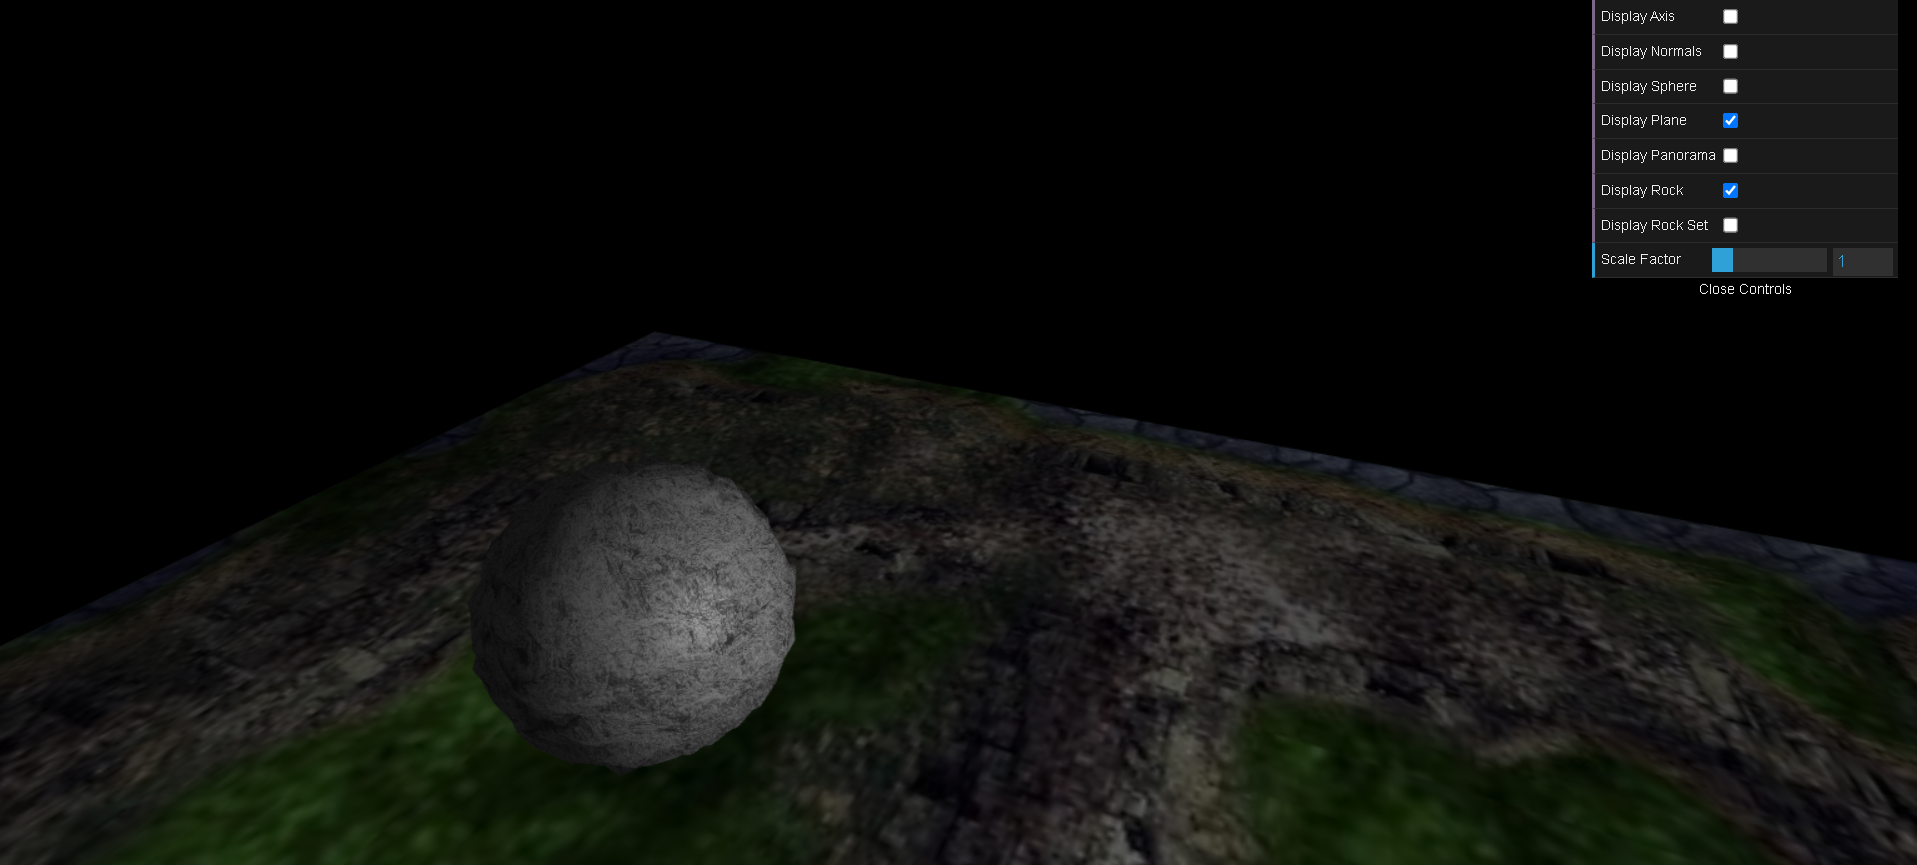
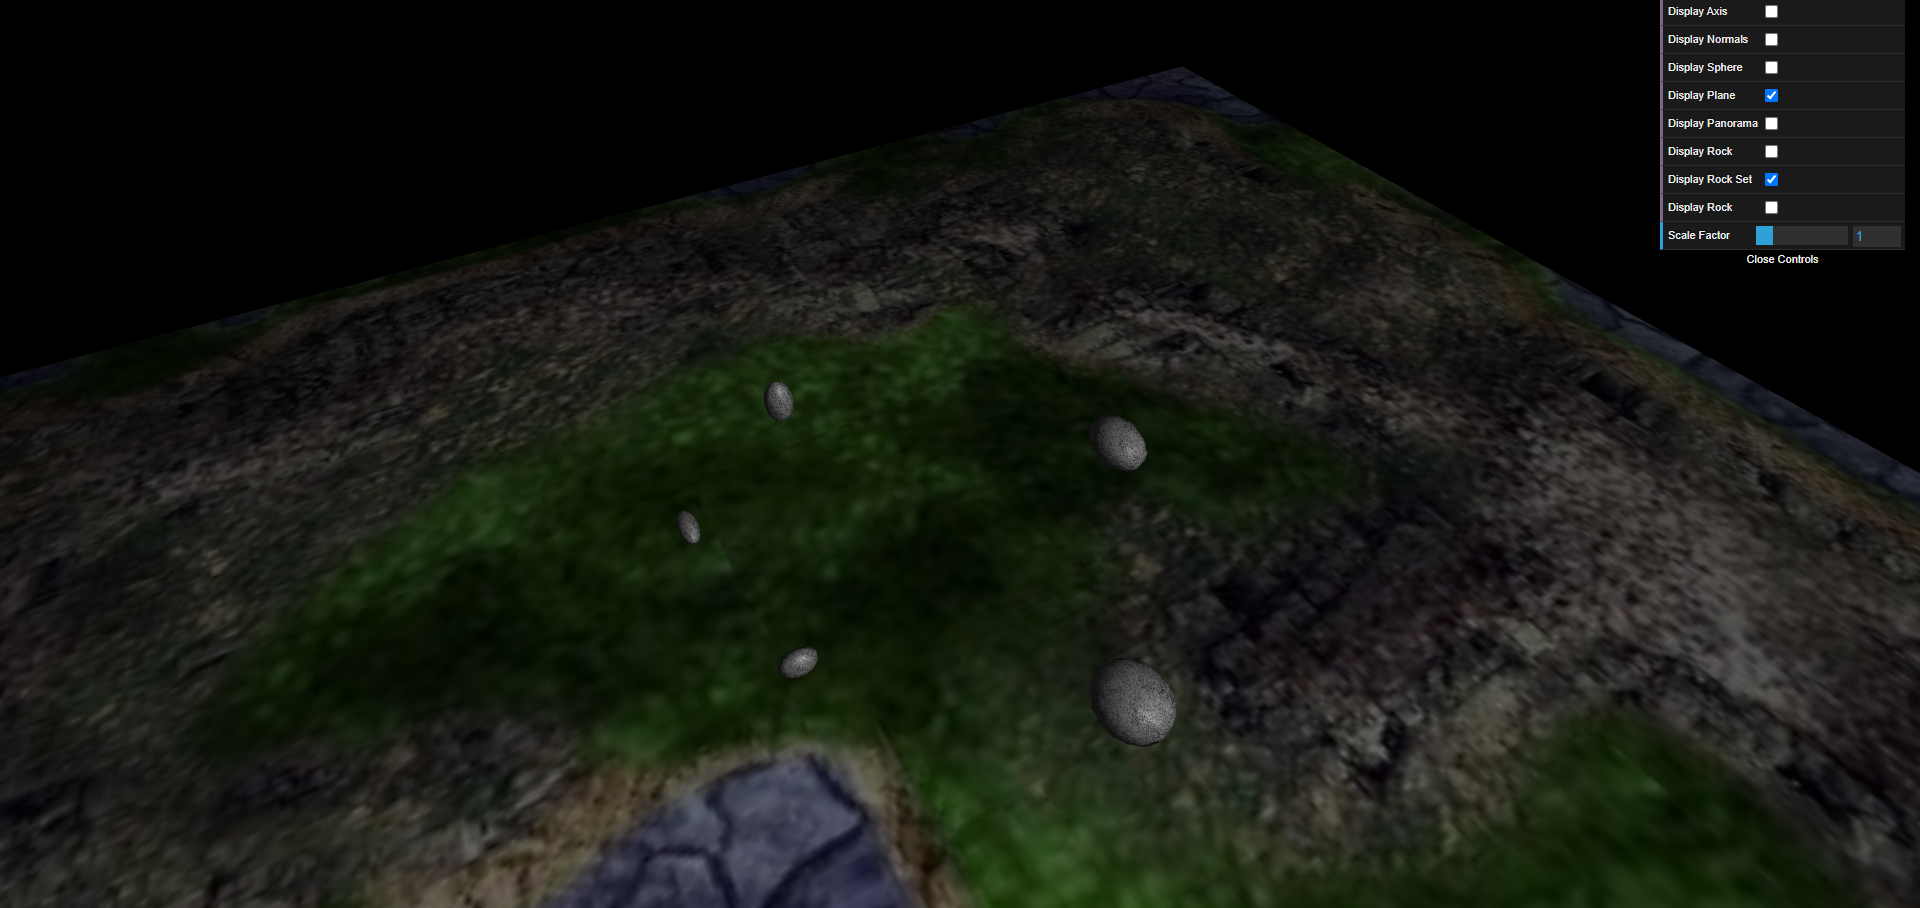
RockPilePyramid

diff --git a/project/MyScene.js b/project/MyScene.js
@@ -4,6 +4,7 @@ import { MySphere } from "./MySphere.js";
 import { MyPanorama } from "./MyPanorama.js";
 import { MyRock } from "./MyRock.js";
 import { MyRockSet } from "./MyRockSet.js";
+import { MyRockPyramid } from "./MyRockPyramid.js";
 
 /**
  * MyScene
@@ -34,6 +35,7 @@ export class MyScene extends CGFscene {
     this.panorama = new MyPanorama(this, new CGFtexture(this, "images/city_panorama.jpg"));
     this.rock = new MyRock(this, 32, 32, false);
     this.rockset = new MyRockSet(this, 5, 32, 32);
+    this.rockpyramid = new MyRockPyramid(this, 3, 32, 32);
 
     //Objects connected to MyInterface
     this.displayAxis = false;
@@ -42,7 +44,8 @@ export class MyScene extends CGFscene {
     this.displayPlane = false;
     this.displayPanorama = false;
     this.displayRock = false;
-    this.displayRockSet = true;
+    this.displayRockSet = false;
+    this.displayRockPyramid = true;
     this.scaleFactor = 1;
 
     //Textures
@@ -157,6 +160,14 @@ export class MyScene extends CGFscene {
         child.disableNormalViz();
       }
     }
-    // ---- END Primitive drawing section
+
+    if(this.displayRockPyramid){
+        this.rockpyramid.display();
+        if(this.displayNormals){
+          for(let child of this.rockpyramid.rocks){
+            child.enableNormalViz();
+          }
+        }
+      }  
   }
 }

diff --git a/project/MyRockPyramid.js b/project/MyRockPyramid.js
@@ -1,0 +1,42 @@
+import { CGFobject } from "../lib/CGF.js";
+import { MyRock } from "./MyRock.js";
+
+export class MyRockPyramid extends CGFobject {
+
+    constructor(scene, heigth, slices, stacks){
+
+        super(scene);
+        this.rocks = [];
+
+        let rockId = 0;
+
+        for(let h = 0; h < heigth; h++){
+
+            let numRocks = (h + 1) * (h + 1);
+
+            for(let i = 0; i < numRocks; i++){
+
+                let rock = new MyRock(scene,slices,stacks);
+
+                let x = ((i % (h + 1)) - h / 2);
+                let y = -h*1.2;
+                let z = Math.floor((i / (h + 1)) - h / 2);
+
+                rock.position = [x,y,z];
+                this.rocks[rockId++] = rock;
+
+            }
+        }
+
+    }
+
+    display(){
+        for(let rock of this.rocks){
+            this.scene.pushMatrix();
+            this.scene.translate(rock.position[0],rock.position[1],rock.position[2]);
+            rock.display();
+            this.scene.popMatrix();
+        }
+    }
+
+}

diff --git a/project/MyRock.js b/project/MyRock.js
@@ -10,6 +10,12 @@ export class MyRock extends CGFobject {
         this.stacks = stacks;
         this.inverse = inverse;
 
+        let scaleX = Math.random() * 0.5 + 0.5;
+        let scaleY = Math.random() * 0.5 + 0.5;
+        let scaleZ = Math.random() * 0.5 + 0.5;
+
+        this.scale = [scaleX, scaleY, scaleZ];
+
         this.material = new CGFappearance(scene);
         this.material.setAmbient(0.5, 0.5, 0.5, 1.0); 
         this.material.setDiffuse(0.5, 0.5, 0.5, 1.0); 
@@ -101,7 +107,10 @@ export class MyRock extends CGFobject {
     }
 
     display(){
+        this.scene.pushMatrix();
+        this.scene.scale(this.scale[0],this.scale[1],this.scale[2]);
         this.material.apply();
         super.display();
+        this.scene.popMatrix();
     }
 }

diff --git a/project/MyInterface.js b/project/MyInterface.js
@@ -25,6 +25,7 @@ export class MyInterface extends CGFinterface {
         this.gui.add(this.scene, 'displayPanorama').name('Display Panorama');
         this.gui.add(this.scene, 'displayRock').name('Display Rock');
         this.gui.add(this.scene, 'displayRockSet').name('Display Rock Set');
+        this.gui.add(this.scene, 'displayRockPyramid').name('Display Rock Pyramid');
 
         //Slider element in GUI
         this.gui.add(this.scene, 'scaleFactor', 0.1, 5).name('Scale Factor');

diff --git a/project/MyRockSet.js b/project/MyRockSet.js
@@ -17,13 +17,7 @@ export class MyRockSet extends CGFobject {
             let y = 0;
             let z = Math.random() * 20 - 10;
 
-            let scaleX = Math.random() * 0.5 + 0.5;
-            let scaleY = Math.random() * 0.5 + 0.5;
-            let scaleZ = Math.random() * 0.5 + 0.5;
-
             rock.position = [x,y,z];
-            rock.scale = [scaleX,scaleY,scaleZ];
-
             this.rocks.push(rock);
         }
 
